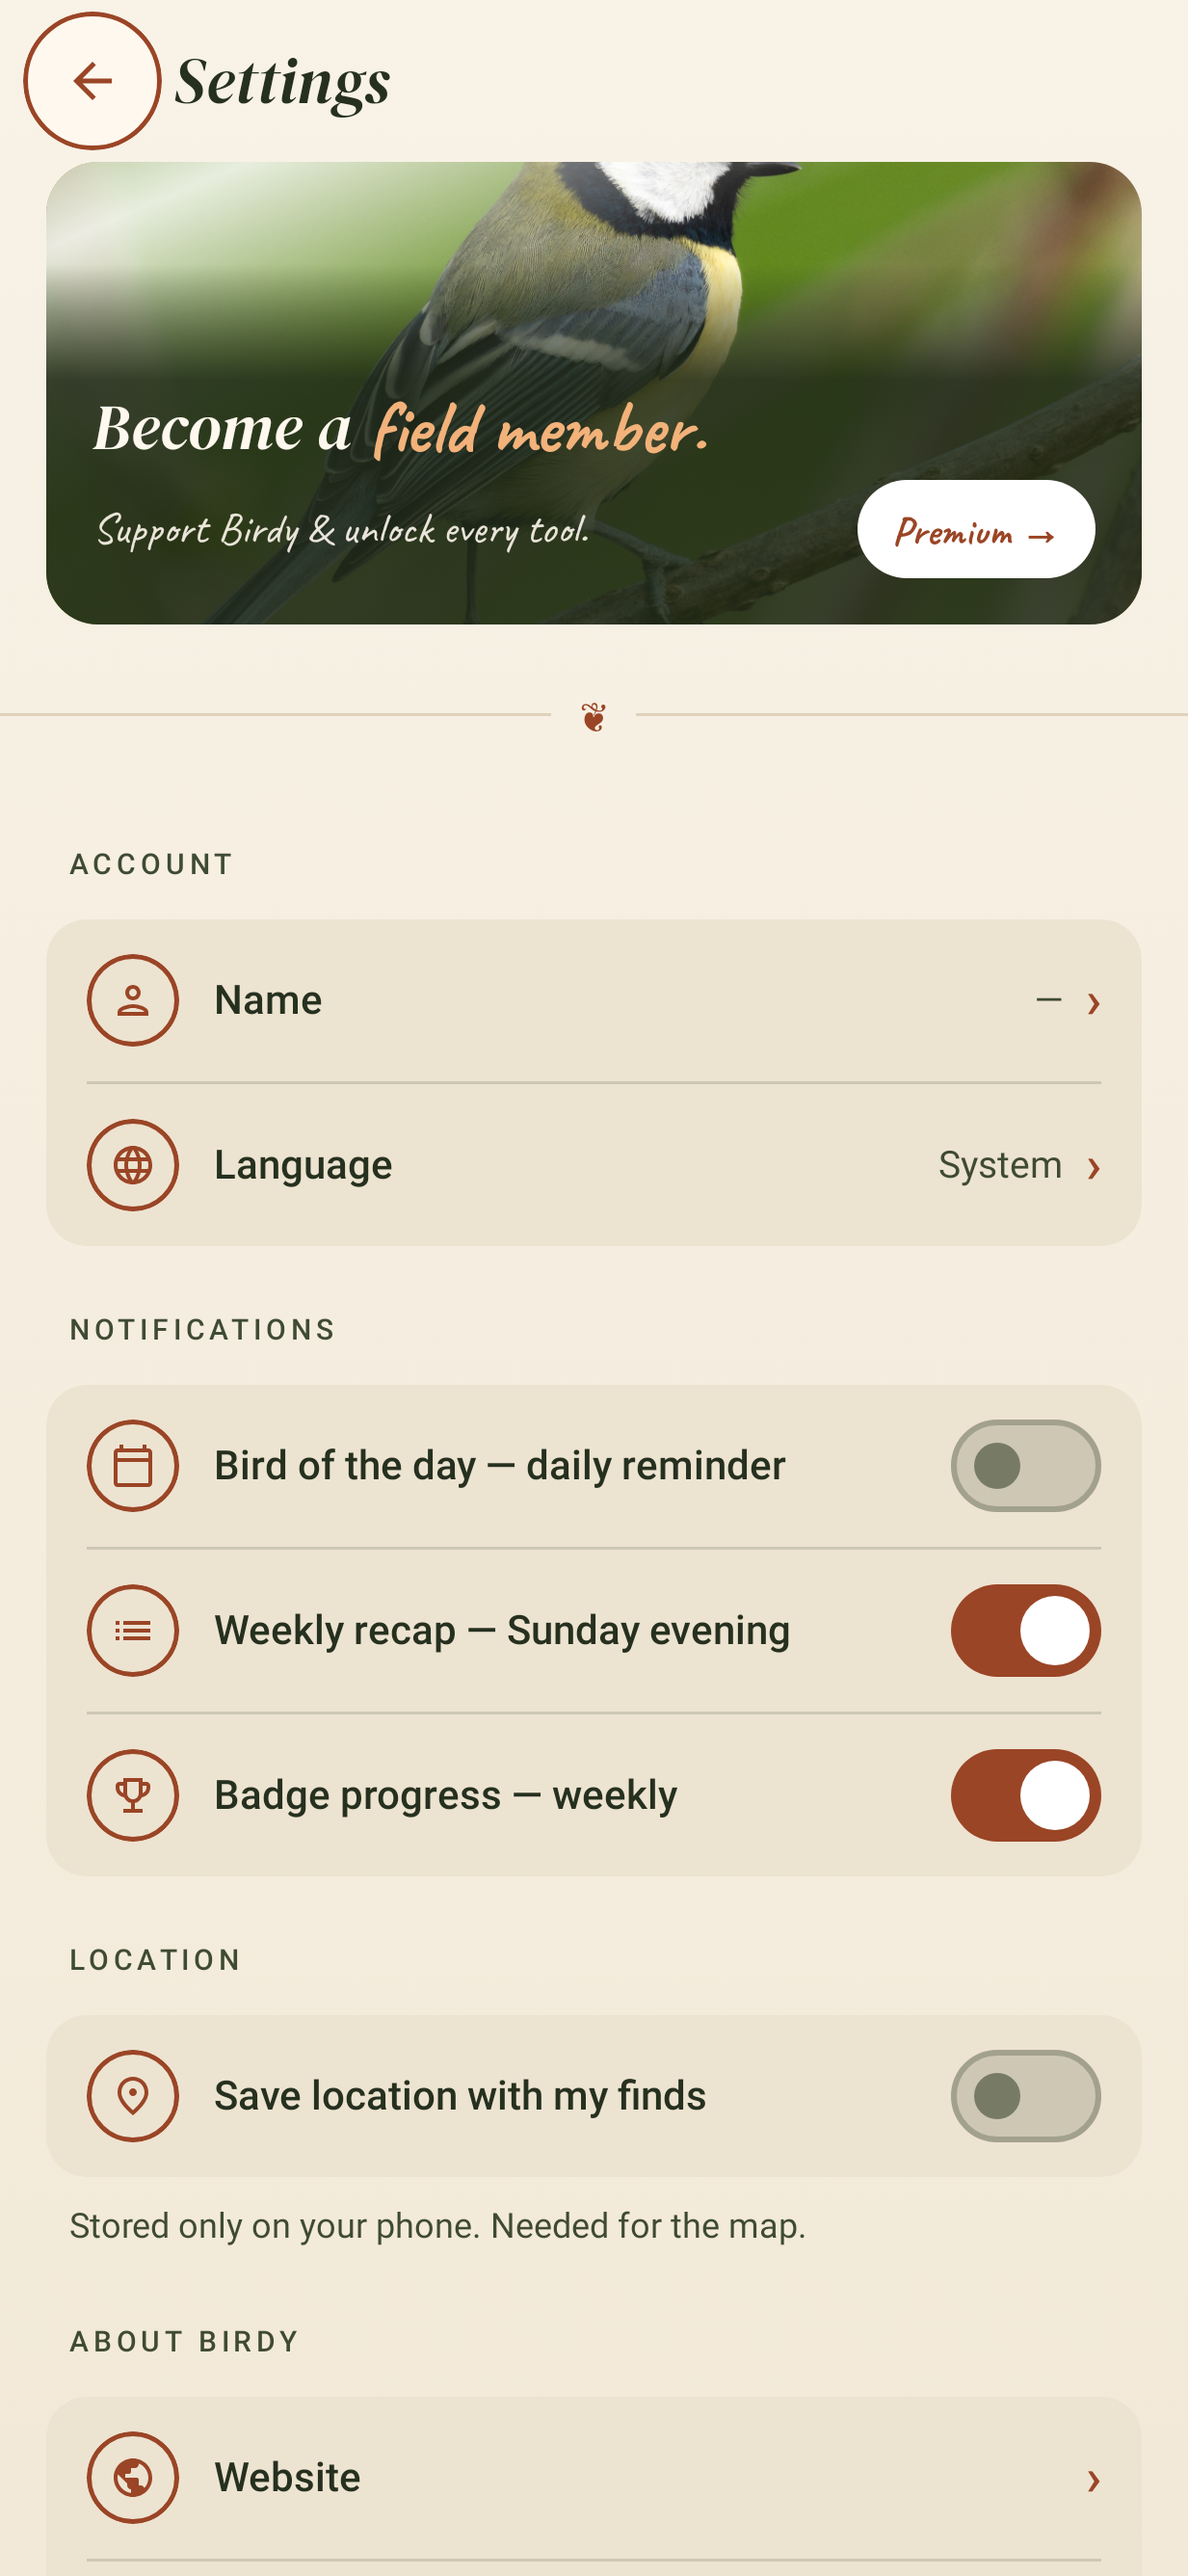
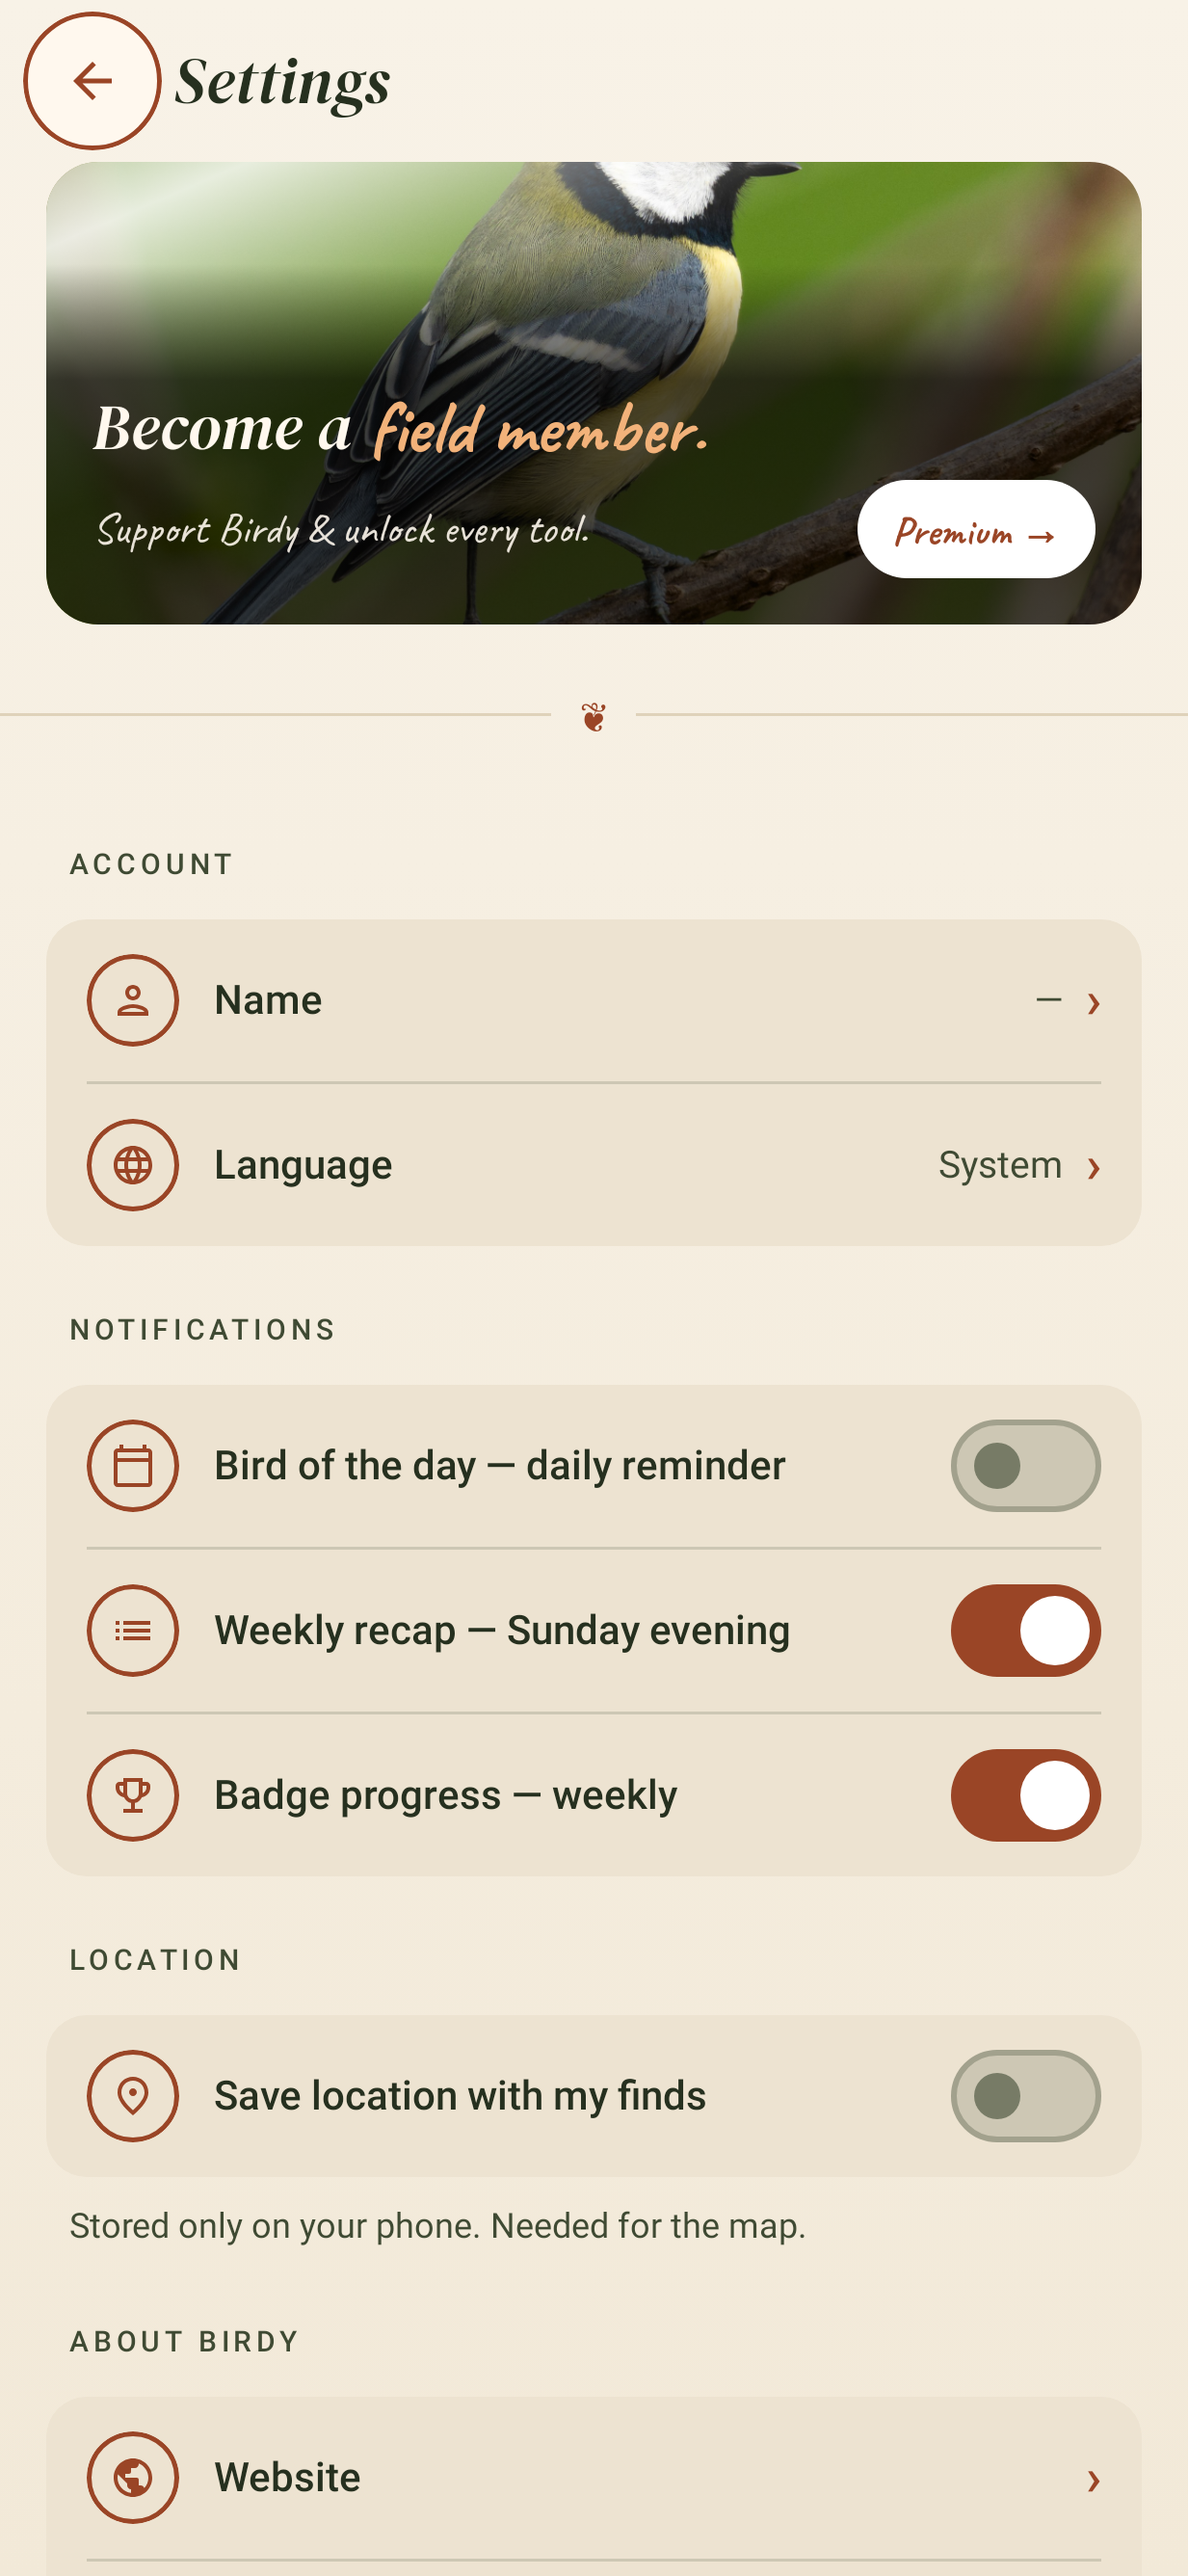
fix(settings): the Premium card darkened the great tit with moss green
Review fix I2 for 35edcad6. The text scrim was HeroMossDeep at 0.85 over the bird, against
Albin's decision of 2026-10-06 ("the green over the bird takes away from it": only neutral
darkening over bird photos). It is now black, still confined to the text block, at the
lightest alpha that keeps every line at WCAG AA over a white backdrop: 0.70 (apricot accent
about 4.6:1, headline about 8.1:1, subline about 6.9:1). The bird keeps its own colours above
the text.

The value equals PhotoScrim from feature/1.3-foto-klar; merging that branch here was blocked
in this session, so the card uses Color.Black with a note to switch to the token after the
merge.

Test: PremiumHeroCardContrastTest also requires the scrim to be hue-free (red before: moss).
Re-recorded docs/superpowers/screenshots/v1.3/settings_free_{sv,en}.png.

diff --git a/composeApp/src/commonMain/kotlin/se/birdy/app/ui/components/PremiumHeroCard.kt b/composeApp/src/commonMain/kotlin/se/birdy/app/ui/components/PremiumHeroCard.kt
@@ -36,25 +36,27 @@ import org.jetbrains.compose.resources.ExperimentalResourceApi
 import org.jetbrains.compose.resources.stringResource
 import se.birdy.app.ui.theme.AccentCopper
 import se.birdy.app.ui.theme.AccentCopperLight
-import se.birdy.app.ui.theme.HeroMossDeep
 import se.birdy.app.ui.theme.TextOnHero
 import se.birdy.app.ui.theme.rememberCaveat
 import se.birdy.app.ui.theme.rememberDmSerifDisplay
 
 // Release 1.3.0 Task 7g item 5: the rust accent word sat straight on the photo at about 1.5:1.
-// The text now sits on a moss scrim drawn above the photo and the glow, the accent is apricot
-// (the palette's accent on dark), and PremiumHeroCardContrastTest checks these values against a
+// The text now sits on a scrim drawn above the photo and the glow, the accent is apricot (the
+// palette's accent on dark), and PremiumHeroCardContrastTest checks these values against a
 // white backdrop under the scrim, the brightest the photo or the glow's peak can make it.
-internal const val PREMIUM_HERO_TEXT_SCRIM_ALPHA = 0.85f
+// Review fix I2: the scrim is neutral black, not moss (Albin 2026-10-06: green over the bird takes
+// away from it), at the lightest alpha that keeps every line at 4.5:1 (apricot ≈ 4.6:1 at 0.70).
+// Same value as PhotoScrim on feature/1.3-foto-klar; switch to that token once it is merged here.
+internal const val PREMIUM_HERO_TEXT_SCRIM_ALPHA = 0.70f
 internal const val PREMIUM_HERO_SUBLINE_ALPHA = 0.9f
-internal val PremiumHeroScrimColor = HeroMossDeep
+internal val PremiumHeroScrimColor = Color.Black
 internal val PremiumHeroTextColor = TextOnHero
 internal val PremiumHeroAccentColor = AccentCopperLight
 
 /**
- * Settings-skärmens premium-upsell: foto + glöd, och texten (headline, rad, pill) på en mossgrön
- * toning som följer textblocket (samma grepp som PhotoHero): den tonar in över blockets övre
- * marginal och ligger sedan jämn ända ner. Foto laddas via Coil från files/premium/great-tit-hero.jpg.
+ * Settings-skärmens premium-upsell: foto + glöd, och texten (headline, rad, pill) på en neutral
+ * mörk toning som följer textblocket (samma grepp som PhotoHero): den tonar in ovanför blocket och
+ * ligger sedan jämn ända ner. Foto laddas via Coil från files/premium/great-tit-hero.jpg.
  */
 @OptIn(ExperimentalResourceApi::class)
 @Composable
@@ -148,7 +150,7 @@ private val SCRIM_FADE_ABOVE = 24.dp
 
 /**
  * Fades in from [fadeAbove] above the text block, through its top [padding], and is a flat
- * [PREMIUM_HERO_TEXT_SCRIM_ALPHA] moss from the first line of text down, so every line sits on the
+ * [PREMIUM_HERO_TEXT_SCRIM_ALPHA] black from the first line of text down, so every line sits on the
  * flat part. Drawing above the block's own bounds is fine: the card's clip keeps it inside.
  */
 private fun androidx.compose.ui.graphics.drawscope.DrawScope.drawTextScrim(

diff --git a/composeApp/src/commonTest/kotlin/se/birdy/app/ui/components/PremiumHeroCardContrastTest.kt b/composeApp/src/commonTest/kotlin/se/birdy/app/ui/components/PremiumHeroCardContrastTest.kt
@@ -37,4 +37,12 @@ class PremiumHeroCardContrastTest {
             )
         assertTrue(failures.isEmpty(), "at scrim alpha $PREMIUM_HERO_TEXT_SCRIM_ALPHA: " + failures.joinToString("; "))
     }
+
+    // Review fix I2 (Albin 2026-10-06, "the green over the bird takes away from it"): only a
+    // neutral darkening goes over bird photos, never moss.
+    @Test
+    fun `the scrim over the photo is neutral`() {
+        val c = PremiumHeroScrimColor
+        assertTrue(c.red == c.green && c.green == c.blue, "scrim $c has a hue")
+    }
 }
